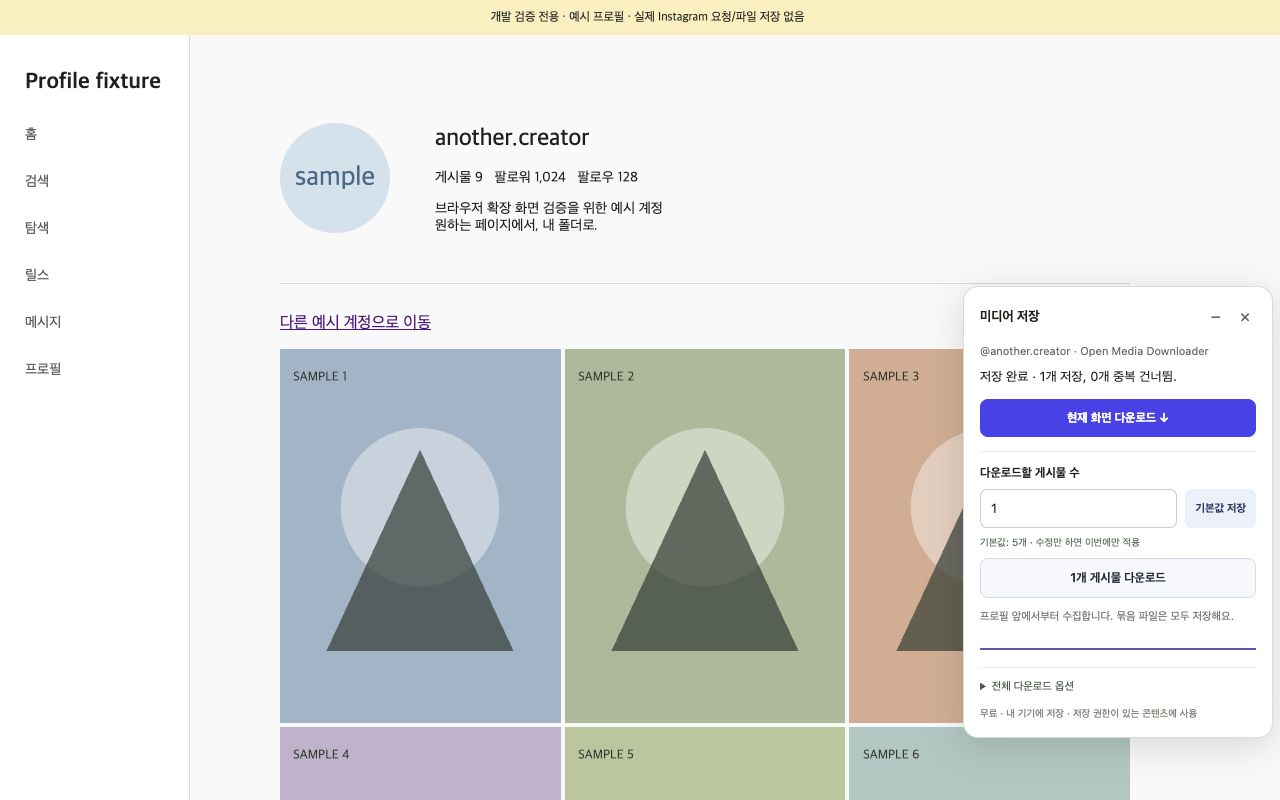
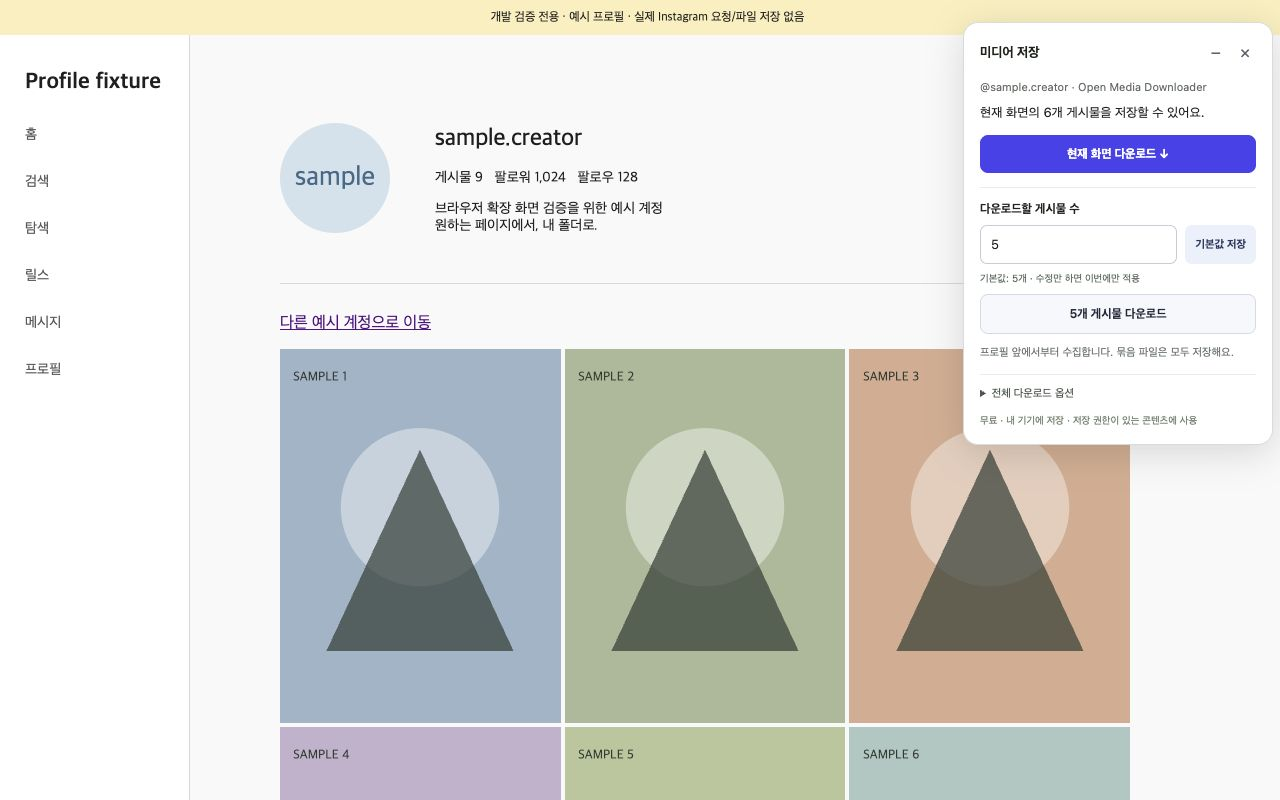
fix: 다운로드 안내를 우측 상단으로 이동

diff --git a/docs/index.html b/docs/index.html
@@ -1,1 +1,1 @@
-<!doctype html><html lang="ko"><meta charset="utf-8"><meta name="viewport" content="width=device-width,initial-scale=1"><title>Open Media Downloader · Instagram 페이지에서 바로 저장</title><link rel="stylesheet" href="privacy.css"><body><p>무료 · 오픈소스 · MIT</p><h1>Instagram에서,<br>그대로 저장하세요.</h1><p>계정 프로필에 나타나는 작은 미디어 저장 안내. 현재 화면만 저장하거나, 원하는 게시물 수를 지정할 수 있습니다. 기본 개수를 저장해 다른 계정에서도 적용하고, 전체 옵션으로 모두 수집할 수도 있습니다.</p><p><a href="https://github.com/Whosekey-Labs/instagram-downloader/releases/tag/v0.3.0">0.3.0 설치 ZIP</a> · <a href="https://github.com/Whosekey-Labs/instagram-downloader">소스와 설치 방법</a></p><h2>사용 방법</h2><ol><li>확장을 설치하고 Instagram 페이지를 새로고침합니다.</li><li>원하는 계정의 게시물 탭으로 이동합니다.</li><li>오른쪽 아래 '미디어 저장'을 펼쳐 현재 화면 다운로드를 누릅니다.</li><li>전체가 필요하면 전체 다운로드 옵션을 사용합니다.</li></ol><p>별도 작업 웹사이트나 로컬 서버가 필요하지 않습니다. 실제 Instagram 파일 저장 검증 및 웹스토어 심사 전의 초기 테스트 버전입니다.</p><h2>지원 범위</h2><p>프로필 게시물 그리드의 사진·영상·릴스·캐러셀. 현재 세션에서 접근 가능한 콘텐츠만 처리합니다. Instagram 변경이나 제한으로 작동하지 않을 수 있습니다. 본인 콘텐츠 또는 저장 허락을 받은 콘텐츠에 사용하세요.</p><p><a href="privacy.html">개인정보처리방침</a> · <a href="https://github.com/Whosekey-Labs/instagram-downloader/issues">문의</a></p><p>Instagram / Meta와 무관한 독립 프로젝트입니다.</p></body></html>
+<!doctype html><html lang="ko"><meta charset="utf-8"><meta name="viewport" content="width=device-width,initial-scale=1"><title>Open Media Downloader · Instagram 페이지에서 바로 저장</title><link rel="stylesheet" href="privacy.css"><body><p>무료 · 오픈소스 · MIT</p><h1>Instagram에서,<br>그대로 저장하세요.</h1><p>계정 프로필에 나타나는 작은 미디어 저장 안내. 현재 화면만 저장하거나, 원하는 게시물 수를 지정할 수 있습니다. 기본 개수를 저장해 다른 계정에서도 적용하고, 전체 옵션으로 모두 수집할 수도 있습니다.</p><p><a href="https://github.com/Whosekey-Labs/instagram-downloader/releases/tag/v0.3.1">0.3.0 설치 ZIP</a> · <a href="https://github.com/Whosekey-Labs/instagram-downloader">소스와 설치 방법</a></p><h2>사용 방법</h2><ol><li>확장을 설치하고 Instagram 페이지를 새로고침합니다.</li><li>원하는 계정의 게시물 탭으로 이동합니다.</li><li>오른쪽 위 '미디어 저장'을 펼쳐 현재 화면 다운로드를 누릅니다.</li><li>전체가 필요하면 전체 다운로드 옵션을 사용합니다.</li></ol><p>별도 작업 웹사이트나 로컬 서버가 필요하지 않습니다. 실제 Instagram 파일 저장 검증 및 웹스토어 심사 전의 초기 테스트 버전입니다.</p><h2>지원 범위</h2><p>프로필 게시물 그리드의 사진·영상·릴스·캐러셀. 현재 세션에서 접근 가능한 콘텐츠만 처리합니다. Instagram 변경이나 제한으로 작동하지 않을 수 있습니다. 본인 콘텐츠 또는 저장 허락을 받은 콘텐츠에 사용하세요.</p><p><a href="privacy.html">개인정보처리방침</a> · <a href="https://github.com/Whosekey-Labs/instagram-downloader/issues">문의</a></p><p>Instagram / Meta와 무관한 독립 프로젝트입니다.</p></body></html>

diff --git a/src/panel-style.js b/src/panel-style.js
@@ -1,8 +1,8 @@
 export const panelStyle = `
-:host{all:initial;position:fixed;right:22px;bottom:82px;z-index:2147483000;font-family:-apple-system,BlinkMacSystemFont,"Apple SD Gothic Neo","Malgun Gothic",sans-serif;color:#20271e;font-size:13px;line-height:1.5;color-scheme:light}
+:host{all:initial;position:fixed;right:22px;top:22px;bottom:auto;z-index:2147483000;font-family:-apple-system,BlinkMacSystemFont,"Apple SD Gothic Neo","Malgun Gothic",sans-serif;color:#20271e;font-size:13px;line-height:1.5;color-scheme:light}
 :host([hidden]){display:none!important}*{box-sizing:border-box}button{font:inherit;cursor:pointer;border:0}button:focus-visible,summary:focus-visible{outline:3px solid #92b1ff;outline-offset:3px}[hidden]{display:none!important}
 .chip{display:flex;align-items:center;gap:9px;padding:11px 15px;background:#20271e;color:white;border-radius:30px;box-shadow:0 4px 18px #0002;font-size:12px;font-weight:650}.chip span{color:#c3d8ff}.panel{width:310px;background:#fff;border:1px solid #dddfe3;border-radius:15px;box-shadow:0 8px 36px #0002;overflow:hidden}
 header{display:flex;align-items:center;gap:7px;padding:14px 16px 0}header strong{font-size:13px;flex:1}header button{background:transparent;color:#687076;padding:3px 6px;font-size:17px;border-radius:4px}.body{padding:10px 16px 16px}.account{font-size:11px;color:#727972;margin:0 0 7px}.status{margin:0 0 12px;font-size:13px;line-height:1.6;overflow-wrap:anywhere}.status.error{color:#a53027}.primary,.secondary{padding:10px 12px;width:100%;border-radius:8px;font-weight:650;font-size:12px}.primary{background:#2454ed;color:#fff}.secondary{border:1px solid #d9dfe9;background:#f7f9fc;color:#24303f;margin-top:8px}button:disabled{opacity:.45;cursor:default}.hint{font-size:11px;color:#778078;line-height:1.6;margin:9px 0}.stop{color:#a53027;border-color:#e9c9c5;background:#fff7f5}details{margin-top:13px;border-top:1px solid #eceeeb;padding-top:10px}summary{cursor:pointer;font-size:11px;color:#586359}.link{background:none;color:#6b756d;text-decoration:underline;font-size:10px;padding:4px 0;margin-top:8px}progress{width:100%;height:4px;accent-color:#2454ed;margin:10px 0 0}.foot{font-size:10px;color:#859080;margin:12px 0 0}
-@media(max-width:480px){:host{right:12px;bottom:76px}.panel{width:min(310px,calc(100vw - 24px))}}
+@media(max-width:480px){:host{right:12px;top:12px;bottom:auto}.panel{width:min(310px,calc(100vw - 24px))}}
 .panel{max-height:calc(100dvh - 110px);overflow-y:auto}.count-options{border-top:1px solid #eceeeb;margin-top:14px;padding-top:12px}.count-options label{display:block;font-size:12px;font-weight:650;margin-bottom:7px}.count-row{display:flex;gap:8px}.count-row input{width:100%;min-width:0;flex:1;padding:9px 10px;border:1px solid #ccd3dc;border-radius:7px;font:inherit;background:white;color:#20271e}.count-row button{white-space:nowrap;border-radius:7px;background:#edf2fb;color:#294369;padding:8px 10px;font-size:11px;font-weight:650}.count-row input:disabled{opacity:.5}.count-note{font-size:10px;color:#67776a;margin:7px 0 0;overflow-wrap:anywhere}input:focus-visible{outline:3px solid #92b1ff;outline-offset:2px}
 `;

diff --git a/README.md b/README.md
@@ -2,13 +2,13 @@
 
 **Instagram 프로필 안에서 현재 화면의 미디어를 저장하거나, 전체 게시물을 스크롤해 모은 뒤 다운로드하는 무료 오픈소스 확장입니다.**
 
-별도 웹사이트나 작업 탭으로 이동하지 않습니다. 로컬 서버도 필요하지 않습니다. Instagram 페이지 오른쪽 아래의 작은 **미디어 저장** 버튼에서 사용합니다.
+별도 웹사이트나 작업 탭으로 이동하지 않습니다. 로컬 서버도 필요하지 않습니다. Instagram 페이지 오른쪽 위의 작은 **미디어 저장** 버튼에서 사용합니다.
 
 0.2.0은 사용자가 실제 사용 후 정상 동작을 확인했습니다. 0.3.0에서는 개수 지정 및 기본값 저장을 추가했고 자동 테스트와 예시 프로필 UI를 검증했습니다. 새 기능의 실서비스 검증과 웹스토어 심사는 별도입니다. [검증 기록](docs/verification.md)
 
 ## 설치
 
-1. [v0.3.0 ZIP](https://github.com/Whosekey-Labs/instagram-downloader/releases/tag/v0.3.0)을 내려받아 압축을 풉니다.
+1. [v0.3.1 ZIP](https://github.com/Whosekey-Labs/instagram-downloader/releases/tag/v0.3.1)을 내려받아 압축을 풉니다.
 2. Chrome의 `chrome://extensions`에서 **개발자 모드**를 켭니다.
 3. **압축해제된 확장 프로그램 로드**로 `manifest.json`이 있는 폴더를 선택합니다.
 4. Instagram 탭을 새로고침하고 원하는 계정의 **게시물 탭**으로 이동합니다.
@@ -18,7 +18,7 @@
 ## 사용 흐름
 
 1. 브라우저에서 Instagram에 접속하고 원하는 계정 프로필로 이동합니다.
-2. 오른쪽 아래 **미디어 저장 · N개 게시물** 안내를 누릅니다. 자동으로 창을 열거나 다운로드하지 않습니다.
+2. 오른쪽 위 **미디어 저장 · N개 게시물** 안내를 누릅니다. 자동으로 창을 열거나 다운로드하지 않습니다.
 3. **현재 화면 다운로드**를 누르면 클릭 시점에 화면에 보이는 게시물만 저장합니다. 자동 스크롤하지 않습니다. 여러 장이 묶인 게시물은 그 안의 사진·동영상을 함께 저장합니다.
 4. 전체가 필요하면 **전체 다운로드 옵션 → 전체 모은 뒤 다운로드**를 선택합니다. 페이지 위쪽부터 스크롤하며 게시물 주소를 모은 후, 전체 개수가 확인되면 순차 저장합니다.
 5. 필요하면 **작업 중단**을 누릅니다. 안내는 접거나 닫을 수 있고, 확장 아이콘으로 다시 열 수 있습니다.

diff --git a/store/submission.md b/store/submission.md
@@ -1,9 +1,9 @@
-# 배포 및 심사 상태 · 0.3.0
+# 배포 및 심사 상태 · 0.3.1
 
 ## 준비한 자료
 
-- `release/open-media-downloader-0.3.0.zip`: 설치 및 업로드 패키지
-- `release/open-media-downloader-0.3.0.zip.sha256`: 무결성 값
+- `release/open-media-downloader-0.3.1.zip`: 설치 및 업로드 패키지
+- `release/open-media-downloader-0.3.1.zip.sha256`: 무결성 값
 - `store/assets/icon128.png`, `promo440.png`: 아이콘 및 홍보 이미지
 - `store/assets/screenshot-inline-demo.png`: 실제 확장 UI를 예시 프로필에 띄운 검증용 이미지. 실제 Instagram 다운로드 증거가 아니며 심사 제출 전 실환경 캡처로 교체 권장
 - `store/listing.md`: 스토어 설명, 단일 목적, 권한 사유, 개인정보 선언 참고, 테스트 지침

diff --git a/docs/verification.md b/docs/verification.md
@@ -1,6 +1,10 @@
-# 검증 기록 · 0.3.0
+# 검증 기록 · 0.3.1
 
 2026-09-22
+
+## 0.3.1 안내 위치
+
+접힌 버튼과 펼친 안내창을 우측 상단으로 이동했습니다. Chrome 예시 프로필에서 데스크톱의 위/오른쪽 간격 22px, 390px 화면의 간격 12px를 실제 DOM 좌표로 확인했습니다. 기존 테스트 38개와 빌드·패키지 검사가 통과했습니다.
 
 ## 0.3.0 개수 지정 및 기본값
 
